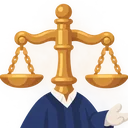
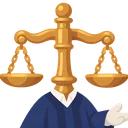
chore : COMMON-49 이미지 검수 기록 · 표정 규칙 완화 문서 갱신 · 번짐 보정 webp 교체

diff --git a/docs/character/character-image-checklist.md b/docs/character/character-image-checklist.md
@@ -36,6 +36,7 @@
 | v0.30 | 2026-10-19 | 스테이징 신규 이미지 12장 반영(COMMON-46) — A6 마스코트 로 6장 · G2 소품 시트 · H1 내로 · 남불 의상 시트 · 사건 1 재연 컷 3장. 파일 이름은 이 문서 규칙대로, `_original/`에도 백업. 검수는 아직 |
 | v0.31 | 2026-10-20 | 스테이징 신규 이미지 반영(COMMON-46) — H0 라인업 시트 5장 · H1 로 의상 시트 3장 · H2 마스코트 로 컷 9 + 합의 · 비교 컷 3장 · H3 · H4 역할 컷 10장(검수는 아직). **볼따구(B4) 컷 4장을 시트 `deform-cheek` 기준(짧은 만두형 몸통 · 납작한 볼)으로 다시 만들어** `base/cheek/`에 넣고, 옛 컷은 `base/cheek-slim/`(`cut-cheek-slim_*`)에 보존, 그 그림체 시트 2장(`deform-cheek-slim`)을 추가. `cuts/{캐릭터}/base/`를 `scene` · `cheek` · `cheek-slim` · `role` · `mascot` 하위 폴더로 나눔(이미지 저장소와 로컬 동일) |
 | v0.32 | 2026-10-20 | **웹 webp 반영(COMMON-48)** — 시트를 뺀 화면용 이미지를 webp로 변환해 `frontend/public/images/characters/`에 추가(`scene` 16 · `cheek` 4 · `icon` 12 · `mascot` 15 · `standing` 8 · `roles` 10, 역할 8장은 정식 컷으로 교체 + 사건 1 배역 2장). 시트를 뺀 나머지도 변환(`cheek-slim` 4 · `adult` 9 · `cases/reenact-common*` 6, 성향 32장과 사건 1 재연 3장은 이미 있어 제외). `stage.js` 등이 이미지 저장소 raw PNG 대신 이 webp를 읽고, 로 이미지는 마스코트 버전(`mascot/`)으로 바꿈. 이미지 저장소 `base/` 하위 폴더 정리로 옛 경로가 404가 된 문제도 함께 해결 |
+| v0.33 | 2026-10-20 | **검수 · 화면 확인 · 상태 정리(COMMON-49)** — 10/19 ~ 10/20 추가분 검수와 실제 앱 화면 확인 결과를 4-2에 기록. 결정: 로 데포르메 세부 시트(G6)는 보류(종합 시트로 대체), 사건별 재연 컷은 보류(사건 미정 · 관리자 페이지에서 추가 가능), `cheek-slim` 시트 · 컷은 그대로 사용, 옛 성인 비율 로(`law/` · `adult/`)는 지우지 않고 사용 예정. **표정 규칙 완화**: 극적 긴장감 · 감정선을 위해 날카롭거나 화난 표정을 재연 · 연기 · 시트에서 허용(폭력 · 조롱 금지는 유지, 안내 · 성향 · 아이콘은 그대로), 사건 1 `sub-1` 설명을 남불이 안 보이는 구도로 변경. 조건부 2건(로울 마스코트 `idle-neutral` 번짐, 내로 `role-actor` 흰 번짐)은 후처리한 후보로 교체(옛 파일은 로컬 `discard/cuts/`). H0 ~ H4 · A6 · B4 · G2 상태 갱신 |
 
 > 형식 · 이름 규칙 · 검수 기준은 [캐릭터 에셋 아키텍처](character-asset-architecture.md)가 기준이다(시트 2-2 · 장면 · 감정 코드 3-2 · 상황 4-1 · 크기 6-5 · 검수 7-2). 이 문서는 **무엇을 몇 장 만들고 어디까지 했는지**만 적는다.
 > 캐릭터 설정은 [캐릭터 프로필 · 세계관](character-profile-worldview.md), 성향 이미지 번호는 [성향 이미지 번호표](personality-image-numbers.md)가 기준이다.
@@ -72,7 +73,7 @@
 | 글자 | 이미지 안에 글자 · 숫자 · 로고를 넣지 않는다(말풍선 · 이름표는 웹 UI) |
 | 판결 전 화면 | 로는 저울 1인 · 수평(`neutral`)만 |
 | 봉투 | 로는 **빈손이 기본**. 판결문 봉투는 `deliver`(발표 · 로딩 끝)에서만 든다(10/14) |
-| 표정 | 화난 표정(`angry`)은 만들지 않는다 |
+| 표정 | **10/20 완화**: 재연 컷 · 연기 · 시트에서는 극적 긴장감 · 감정선을 위해 날카롭거나 화난 표정도 쓸 수 있다. 폭력(흉기 · 상처 · 신체 가해) · 악의적 조롱 · 선정적 표현은 계속 금지. 안내 · 리액션 컷 · 성향 결과 · 아이콘에는 쓰지 않고 감정 코드에 `angry`는 만들지 않는다 |
 | 키 | 내로 120 · 남불 120 · 로 저울 230 · 법봉 190 · 법전 210(같은 바닥선, 아키텍처 2-5). **마스코트 로**(A6)는 로울 180 · 로북 170 · 로봉 160 |
 | 로 이름 | 로울 = 저울(`law-scale`) · 로봉 = 법봉(`law-gavel`) · 로북 = 법전(`law-book`). 파일 · 폴더에는 코드를 쓴다. 판결 화면에서는 이름 대신 "AI 판사"(이미지에는 원래 글자를 넣지 않는다) |
 
@@ -94,7 +95,7 @@
 | A5 | **캐릭터별 기준 시트** (내로 · 남불 · 로울 · 로봉) | 4 | 시트 | 10/14 결정: 기준 시트는 **한 장에 한 캐릭터**(아키텍처 2-1 "캐릭터마다 1장"). 로북은 이미 1인 시트(A1 · R2). 칸은 정면 전신 · 턴어라운드 4칸(앞 · 3/4 · 옆 · 뒤) · 표정 6종(마스코트) 또는 자세 6종(로) · 그 캐릭터 색만 있는 색 견본, **키 비교 칸 없음**, 로는 빈손 기본 + 봉투는 한 칸만. **10/14 검수**: **내로 · 남불 · 로울 3장 통과** → `sheets/{naero · nambul · law-scale}_sheet_reference.png`로 정리, 옛 2인 시트(`discard_naero-and-nambul_sheet_reference_two-person.png` · `discard_law-scale-and-law-gavel_sheet_reference_two-person.png`)는 `discard/sheets/`. 사소한 점: 내로 · 남불 `thinking` 표정의 눈썹이 짜증 나 보임(화난 표정 금지 규칙의 경계선), 내로 `sorry`가 눈 감은 표정, 로울 3/4 뷰가 정면과 비슷. **로봉**: 1차본은 떡대 체형이 안 나와(폭/높이 0.44 · 로울 0.48과 같음) 수정했고, **수정본 통과**(0.62 · 로울 대비 +29%, 어깨 · 가슴 · 소매 두꺼움, 4칸 · 6칸 · 봉투 한 칸 OK) → `sheets/law-gavel_sheet_reference.png`, 1차본은 `discard/sheets/discard_law-gavel_sheet_reference_v1-slim-body.png`. 사소: 색 견본 5개(봉투 · 밀랍색 없음), 걷는 칸 다리 비율 | ✅ 4장 |
 | R3 | 키 비교 v2 | 1 | 시트 | 비율 보정(로울 1.92 · 로북 1.75 · 로봉 1.58배), 로북 떠 있게, 숫자 없이, 전원 빈손. **합성 `all_sheet_height-compare.png`로 대체**(내로 · 남불 · 로 셋이 목표 비율 그대로, 같은 바닥선, 글자 없음 · 가이드선만). 한계: 머리 끝 높이에 맞춰 줄여서 로봉의 떡대(어깨 폭) 체형은 덜 드러남. 체형까지 살리려면 모델로 다시 생성 | ✅ (합성) |
 | R4 | 로봉 스탠딩 재작업 | 1 | 투명 PNG | 10/14 로봉 1인 시트 수정본에서 떡대 체형이 확정되어 지금 스탠딩을 넓혀 다시 뽑음. 프롬프트는 문장형 지시를 잘 못 따르는 생성 AI에 맞춰 **수치를 직접 넣는 방식**(10%로 쓰고 사용자가 20%로 조정, 작업 목록 문서 R4 이력). **검수 통과**: 어깨 +19% · 로브 아래 +15% · 중간 +10%(지금 대비 실측), 전체 약 10 ~ 19% — 머리 크기 · 포즈 · 구두(검정) · 로브 형태 유지, 초록 잔여 0. 사용자 판단: "실사체에서는 이 정도가 적당". 새 파일이 `standing/law-gavel_standing.png`, 옛 슬림본은 `discard/standing/discard_law-gavel_standing_slim-body.png`. **연쇄**: 아래 C1 · C2 · A3 · B6 · F1 로봉이 새 체형 기준으로 바뀜 | ✅ |
-| A6 | **마스코트 로** 스탠딩 3 · 기준 시트 3 (로울 · 로봉 · 로북) | 6 | 투명 PNG · 시트 | 10/15 추가: 로를 내로 · 남불과 같은 **2등신 마스코트 그림체**로(기본 `adult` 로는 그대로). 키 로울 180 · 로북 170 · 로봉 160(내로 · 남불 120), 체형 차이 유지. 품질 high. 스탠딩 → 그 스탠딩을 첨부해 시트. 파일 `{law-*}_standing_deform-mascot.png` · `{law-*}_sheet_deform-mascot.png`. 프롬프트 모음 9-16. G6의 첨부 기준. **1차 지시서 1묶음**, 완성 프롬프트 10-1 · 10-2. 올릴 곳: `standing/{law-*}_standing_deform-mascot.png` · `sheets/deform/{law-*}_sheet_deform-mascot.png`(2차 지시서 H0 로 셋 · H2의 첨부) | ✅ 10/19 반영(COMMON-46, 스테이징 6장 · 검수 전) |
+| A6 | **마스코트 로** 스탠딩 3 · 기준 시트 3 (로울 · 로봉 · 로북) | 6 | 투명 PNG · 시트 | 10/15 추가: 로를 내로 · 남불과 같은 **2등신 마스코트 그림체**로(기본 `adult` 로는 그대로). 키 로울 180 · 로북 170 · 로봉 160(내로 · 남불 120), 체형 차이 유지. 품질 high. 스탠딩 → 그 스탠딩을 첨부해 시트. 파일 `{law-*}_standing_deform-mascot.png` · `{law-*}_sheet_deform-mascot.png`. 프롬프트 모음 9-16. G6의 첨부 기준. **1차 지시서 1묶음**, 완성 프롬프트 10-1 · 10-2. 올릴 곳: `standing/{law-*}_standing_deform-mascot.png` · `sheets/deform/{law-*}_sheet_deform-mascot.png`(2차 지시서 H0 로 셋 · H2의 첨부) | ✅ 10/19 반영(COMMON-46) · 10/20 검수 통과 |
 
 - A1 · A2가 끝나면 아키텍처 2-4(색) · 2-5(프로필) · 5-1(IDENTITY)에 법전을 추가한다. 10/14 A2 실측: 표지 `#722C30` ~ `#621E25`(제안 `#5E1F2B`보다 밝은 와인색), 황동 모서리 `#CFAA75` 근처.
 - A3 다시 뽑을 때 추가 문장: `Law (Book) floats above the collar with a clear gap; it never rests on the shoulders.` · `Make Naero and Nambul about 8% larger so the ratios match exactly.` · 숫자 라벨 없이 뽑고 나중에 얹는다.
@@ -106,7 +107,7 @@
 | B1 | 로(저울) | `idle-neutral` · `deliver-neutral`(봉투) | 2 | S-01 메인 · S-02 신문 지면 · 로딩 끝 전달 | ✅ 검수 통과 · PNG 정리(`cuts/law-scale/base/scene/`), webp 변환 전. `idle-neutral`은 A4 변환 대신 새로 생성한 컷(`law-scale_standing.png`와 별개). 저울 수평 · 두 손 봉투 · 목 없음 OK, `deliver`는 "반 걸음 앞으로"가 약함 |
 | B2 | 내로 (`mascot`) | `guide-neutral` · `guide-happy` · `react-surprised` · `react-happy` · `react-sorry` | 5 | 안내 · 리액션 | ✅ 검수 통과 · PNG 정리(`cuts/naero/base/scene/`) · 4:5 맞춤. 후속: 컷마다 캐릭터 크기 차이(웹 변환 때 기준 정함), `react-happy` 눈 감은 웃음 확인 |
 | B3 | 남불 (`mascot`) | B2와 같은 5종 | 5 | 안내 · 리액션 | ✅ 검수 통과 · PNG 정리(`cuts/nambul/base/scene/`) · 4:5 맞춤. 후속: `react-surprised` 캐릭터가 작음, `react-happy` 눈 감음(남불은 동공이 보이는 눈이 정체성이라 확인) |
-| B4 | 내로 · 남불 (`cheek`) | `idle-sorry` · `idle-thinking` | 4 | 로딩 · 빈 상태 · 오류 | ✅ **10/14 사용자 판단으로 통과** · PNG 정리(`cuts/{naero,nambul}/base/cheek-slim/{naero,nambul}_cut-cheek-slim_`(10/20 시트 기준으로 다시 만든 컷은 `base/cheek/`, 이 컷은 `cheek-slim/`으로 보존)). 한계로 기록: 몸통이 "작고 둥근 만두 + 돌기 팔다리" 지시와 다름(`idle-thinking` 둘은 가는 다리로 서 있음), 남불 `idle-thinking`은 입을 활짝 웃음 |
+| B4 | 내로 · 남불 (`cheek`) | `idle-sorry` · `idle-thinking` | 4 | 로딩 · 빈 상태 · 오류 | ✅ **10/14 사용자 판단으로 통과** · PNG 정리(`cuts/{naero,nambul}/base/cheek-slim/{naero,nambul}_cut-cheek-slim_`(10/20 시트 기준으로 다시 만든 컷은 `base/cheek/`, 이 컷은 `cheek-slim/`으로 보존)). 한계로 기록: 몸통이 "작고 둥근 만두 + 돌기 팔다리" 지시와 다름(`idle-thinking` 둘은 가는 다리로 서 있음), 남불 `idle-thinking`은 입을 활짝 웃음 **10/20**: 시트(`deform-cheek`) 기준(짧은 만두형 몸통 · 납작한 볼)으로 4장 다시 만들어 `base/cheek/`에 넣고 검수 통과. 옛 컷은 `base/cheek-slim/`에 두고 시트(`deform-cheek-slim`)와 함께 **그대로 사용**(사용자 결정, 재생성 안 함). |
 | B5 | 내로 · 남불 (`ppg` 아이콘) | `face-{neutral · happy · surprised · thinking · sorry · cheer}` | 12 | 토스트 · 완료 피드백 | ✅ 10/14 `cheer` · `sorry` 4장 재생성본 통과(`cheer`는 별 하이라이트 + 반짝이로 `happy`와 64 px에서 구분, `sorry`는 땀방울이 읽힘 — 남불은 흐림), 아이콘 12장 모두 통과. 머리 비율은 칸의 76 ~ 85%(규격 약 70%, 허용). 이전 `cheer` · `sorry`는 `discard/icons/` |
 | B6 | 내로 · 남불 · 로봉 · 로북 | `idle-neutral`(**스탠딩을 4:5로 변환만**, 생성 없음) | 4 | S-17 프로필 기본 자세(4-1 `profile`) · 컬렉션 · 빈 상태 기본 · 결과 화면 합의 전후 단독 컷. 로울은 B1에 있음 → 5캐릭터 모두 `idle-neutral`을 갖춘다. 로봉은 **10/14 새 체형 스탠딩**을 변환한다 | ✅ 10/14 변환 완료(4:5 · 1122 × 1402, 내로 · 남불은 스탠딩 bbox를 캔버스 높이 약 72%로 가운데 배치, 로봉 · 로북은 971 × 1619 캔버스에 투명 여백을 더해 맞춤, 로봉은 새 떡대 스탠딩). 로울은 B1의 `idle-neutral`을 그대로 씀. 한계: 내로 · 남불 스탠딩은 입을 벌린 밝은 웃음이라 `neutral`보다 `happy`에 가까움 |
 | B7 | 내로 · 남불 (`mascot`) | `cheer-cheer` | 2 | S-06 판결 입력 응원(4-1 `cheer`). **특정 형량 쪽 응원처럼 보이면 안 됨**(빈손, 가리키지 않음) | ✅ 10/14 검수 통과 · `cuts/{naero,nambul}/base/scene/{naero,nambul}_cut_cheer-cheer.png`(4:5). 작게 뛰며 두 주먹 · 빈손 · 가리키지 않음 |
@@ -148,11 +149,11 @@
 | # | 이미지 | 비고 |
 | --- | --- | --- |
 | G1 | 나머지 데포르메 8종 시트 | 아키텍처 3-1. **→ H5로 옮김**(H0을 보고 고른 데포르메만) |
-| G2 | 소품 시트 | 3-3 카탈로그를 물건만 따로. **10/15 이관 묶음에 포함 → ✅ 10/19 반영(COMMON-46, 검수 전)**: 10종(신문 · 돋보기 · 메모장 · 펜 · 서류철 · 클립보드 · 봉투 · 법전 · 법봉 · 작은 저울) + 크기 기준용 작은 내로, `props_sheet_catalog.png`. **1차 지시서 4묶음**, 완성 프롬프트 10-5. 올릴 곳: `sheets/props_sheet_catalog.png` |
+| G2 | 소품 시트 | 3-3 카탈로그를 물건만 따로. **10/15 이관 묶음에 포함 → ✅ 10/19 반영(COMMON-46) · 10/20 검수 통과(소품 10종 정상, 크기 기준 내로의 날카로운 표정은 완화된 표정 규칙에 맞음)**: 10종(신문 · 돋보기 · 메모장 · 펜 · 서류철 · 클립보드 · 봉투 · 법전 · 법봉 · 작은 저울) + 크기 기준용 작은 내로, `props_sheet_catalog.png`. **1차 지시서 4묶음**, 완성 프롬프트 10-5. 올릴 곳: `sheets/props_sheet_catalog.png` |
 | G3 | 스타일 변형 시트 | `riso` · `flat25` 등(3-6) |
 | G4 | 꾸미기 레이어 | `layers/`, 저장 방식이 정해진 뒤 |
 | G5 | 이벤트 · 굿즈용 | IP 확장(프로필 · 세계관 6장) |
-| G6 | 로 데포르메 시트 (로울 · 로봉 · 로북 × `cheek` · `ranma` · `ppg`) | 아키텍처 2-2 "데포르메 시트 — 대표"의 로 몫. 로 쪽 DEFORMATION 블록은 프롬프트 모음 6-5 · 6-8 · 6-11에 이미 있음. 지금 로딩은 로 셋 `adult` 합의 연출이라 급하지 않음. **만들 때는 셋을 같이**(로울만 만들지 않는다), STYLE은 `editorial`로 바꾼다(2-3). **10/15 이관 묶음에 포함**(🟨, A6 검수 통과 뒤): A6 마스코트 시트 + 내로의 같은 데포르메 시트를 첨부, 법전 머리 한 줄 추가, `ranma`는 마스코트 비율을 따라 하지 않게 못 박음. 파일 `{law-*}_sheet_deform-{cheek · ranma · ppg}.png`. **1차 지시서 2묶음**, 완성 프롬프트 10-3. 올릴 곳: `sheets/deform/` |
+| G6 | 로 데포르메 시트 (로울 · 로봉 · 로북 × `cheek` · `ranma` · `ppg`) | 아키텍처 2-2 "데포르메 시트 — 대표"의 로 몫. 로 쪽 DEFORMATION 블록은 프롬프트 모음 6-5 · 6-8 · 6-11에 이미 있음. 지금 로딩은 로 셋 `adult` 합의 연출이라 급하지 않음. **만들 때는 셋을 같이**(로울만 만들지 않는다), STYLE은 `editorial`로 바꾼다(2-3). **10/15 이관 묶음에 포함**(🟨, A6 검수 통과 뒤): A6 마스코트 시트 + 내로의 같은 데포르메 시트를 첨부, 법전 머리 한 줄 추가, `ranma`는 마스코트 비율을 따라 하지 않게 못 박음. 파일 `{law-*}_sheet_deform-{cheek · ranma · ppg}.png`. **1차 지시서 2묶음**, 완성 프롬프트 10-3. 올릴 곳: `sheets/deform/` **10/20 결정: 보류** — 로 데포르메 세부 시트(`cheek` · `ranma` · `ppg`)는 종합 시트(H0)로 대신하고, 필요하면 후속에서 만든다. |
 | G7 | 데포르메별 자세 · 표정 | 10/15 추가. 데포르메마다 연기 시트 · 컷. **범위 정의 필요**(어느 데포르메 · 몇 장). **→ H6 · H7로 옮김** |
 | G8 | 캐릭터 카드 | 10/15 추가. 컬렉션 등에 쓸 카드. **정의 필요**(구성 · 비율 · 글자를 웹에서 얹을지). **→ H8로 옮김** |
 
@@ -164,16 +165,16 @@
 
 | # | 이미지 | 수량 | 형식 | 비고 | 상태 |
 | --- | --- | --- | --- | --- | --- |
-| H0 | **데포르메 묶음 시트** — 한 캐릭터를 기본 + 데포르메 11종, 12칸에 같은 자세로 | 5 (내로 · 남불 · 로울 · 로봉 · 로북) | 시트 16:9 | **느낌을 보는 용도**. 11종(아키텍처 3-1) 전부를 한 장에 넣어 비교하고, 본격적으로 만들 데포르메를 고른다. 로는 기본 칸에 마스코트 로(A6)를 쓰므로 A6 뒤. 12칸이 너무 빽빽하게 나오면 6칸씩 두 장으로 나눈다. 렌더링(외곽선 없음 · 평면 색)은 같게 두고 비율 · 형태 · 연기만 바꾼다. 2차 지시서 H0, 10-6. 올릴 곳: `sheets/deform/` | 🟨 이관 |
-| H1 | **의상 시트** — 일상 의상 8벌 | 5 (내로 · 남불 · 로울 · 로봉 · 로북) | 시트 16:9 | 기존 역할 의상 시트(F2: 판사 · 검사 · 변호인 · 사건 역할)와 별개. 정장 · 트렌치코트 · 후드티 · 니트 · 작업복 · 앞치마 · 패딩 · 잠옷(제복은 법정 역할과 헷갈려 뺌). 내로 · 남불은 사건 재연(H4)의 의상을 여기서 고르고, 로는 법복을 벗은 모습(컬렉션 · 카드용, 기본 로 `authority` × `adult`, 머리 물체 · 흰 장갑 유지). 반다나 없음, 초록 · 캐릭터 고정색 피함. 2차 지시서 H1, 10-7. 올릴 곳: `sheets/wardrobe/` | 🟨 내로 · 남불 2장 ✅ 10/19 반영(COMMON-46, 검수 전), 로 3장 이관 |
-| H2 | **마스코트 로 컷** | 12 | 장면 컷 4:5 · 16:9 | 로 셋 × `idle-neutral` · `deliver-neutral` · `think-thinking`(9) + `trio_cut-mascot_idle` · `trio_cut-mascot_think`(2, 16:9) + 내로 · 로울 · 남불 비교 `compare_cut-mascot_trio-thinking`(1, 16:9). 키 로울 180 · 로북 170 · 로봉 160(내로 · 남불 120). A6 통과 뒤. 2차 지시서 H2, 10-8(1차 1묶음 통과 뒤). 올릴 곳: `cuts/{law-*}/base/mascot/` · `cuts/trio/` · `cuts/compare/` | 🟨 이관 |
-| H3 | **역할 의상 정식 컷** | 8 | 장면 컷 4:5 | 지금 판결 체험 무대(`frontend/public/images/characters/roles/*.webp`, FE-27 · 28)는 **역할 의상 시트에서 잘라 낸 컷**(높이 560 px)을 쓰고, **남불 변호인 컷은 없다**. 내로 · 남불 × 판사 · 검사 · 변호인 · 사건 역할 = 8장을 `idle-neutral`로 정식 생성한다. **검사 · 변호인은 같은 자세 · 같은 표정**(한쪽이 옳아 보이지 않게). 파일 `{naero · nambul}_cut-role-{역할}_idle-neutral.png`. 2차 지시서 H3, 10-9. 올릴 곳: `cuts/{naero · nambul}/role/`. 통과하면 웹 webp로 바꿔 `frontend/public/images/characters/roles/`를 교체한다 | 🟨 이관 |
+| H0 | **데포르메 묶음 시트** — 한 캐릭터를 기본 + 데포르메 11종, 12칸에 같은 자세로 | 5 (내로 · 남불 · 로울 · 로봉 · 로북) | 시트 16:9 | **느낌을 보는 용도**. 11종(아키텍처 3-1) 전부를 한 장에 넣어 비교하고, 본격적으로 만들 데포르메를 고른다. 로는 기본 칸에 마스코트 로(A6)를 쓰므로 A6 뒤. 12칸이 너무 빽빽하게 나오면 6칸씩 두 장으로 나눈다. 렌더링(외곽선 없음 · 평면 색)은 같게 두고 비율 · 형태 · 연기만 바꾼다. 2차 지시서 H0, 10-6. 올릴 곳: `sheets/deform/` | ✅ 10/19 · 10/20 반영, 10/20 검수 통과(키 큰 변형 몇 컷의 날카로운 눈썹은 완화된 표정 규칙에 맞음, 로봉 · 로북 시트는 흰 배경을 투명본으로 교체) |
+| H1 | **의상 시트** — 일상 의상 8벌 | 5 (내로 · 남불 · 로울 · 로봉 · 로북) | 시트 16:9 | 기존 역할 의상 시트(F2: 판사 · 검사 · 변호인 · 사건 역할)와 별개. 정장 · 트렌치코트 · 후드티 · 니트 · 작업복 · 앞치마 · 패딩 · 잠옷(제복은 법정 역할과 헷갈려 뺌). 내로 · 남불은 사건 재연(H4)의 의상을 여기서 고르고, 로는 법복을 벗은 모습(컬렉션 · 카드용, 기본 로 `authority` × `adult`, 머리 물체 · 흰 장갑 유지). 반다나 없음, 초록 · 캐릭터 고정색 피함. 2차 지시서 H1, 10-7. 올릴 곳: `sheets/wardrobe/` | ✅ 5장 반영(내로 · 남불 10/19, 로 3장 10/20), 10/20 검수 통과(로 3장은 성인 비율 그림체, 로봉 시트는 흰 배경을 투명본으로 교체) |
+| H2 | **마스코트 로 컷** | 12 | 장면 컷 4:5 · 16:9 | 로 셋 × `idle-neutral` · `deliver-neutral` · `think-thinking`(9) + `trio_cut-mascot_idle` · `trio_cut-mascot_think`(2, 16:9) + 내로 · 로울 · 남불 비교 `compare_cut-mascot_trio-thinking`(1, 16:9). 키 로울 180 · 로북 170 · 로봉 160(내로 · 남불 120). A6 통과 뒤. 2차 지시서 H2, 10-8(1차 1묶음 통과 뒤). 올릴 곳: `cuts/{law-*}/base/mascot/` · `cuts/trio/` · `cuts/compare/` | ✅ 10/20 반영(COMMON-46) · webp(COMMON-48), 10/20 검수 12장 통과 — `law-scale_cut-mascot_idle-neutral`의 반투명 회색 번짐은 10/20 후처리로 해소(반투명 픽셀 13.7% → 0.7%, 옛 파일은 로컬 `discard/cuts/`로) |
+| H3 | **역할 의상 정식 컷** | 8 | 장면 컷 4:5 | 지금 판결 체험 무대(`frontend/public/images/characters/roles/*.webp`, FE-27 · 28)는 **역할 의상 시트에서 잘라 낸 컷**(높이 560 px)을 쓰고, **남불 변호인 컷은 없다**. 내로 · 남불 × 판사 · 검사 · 변호인 · 사건 역할 = 8장을 `idle-neutral`로 정식 생성한다. **검사 · 변호인은 같은 자세 · 같은 표정**(한쪽이 옳아 보이지 않게). 파일 `{naero · nambul}_cut-role-{역할}_idle-neutral.png`. 2차 지시서 H3, 10-9. 올릴 곳: `cuts/{naero · nambul}/base/role/`. 통과하면 웹 webp로 바꿔 `frontend/public/images/characters/roles/`를 교체한다 | ✅ 10/20 반영(COMMON-46) · webp로 `roles/` 교체(COMMON-48), 10/20 검수 8장 통과 — `naero_cut-role-actor`의 셔츠 주변 흰 번짐은 10/20 후처리로 해소(반투명 픽셀 2.8% → 0.4%, 옛 파일은 로컬 `discard/cuts/`로) |
 
 **2순위**
 
 | # | 이미지 | 수량 | 형식 | 비고 | 상태 |
 | --- | --- | --- | --- | --- | --- |
-| H4 | **사건별 재연** — 재연 컷 3 + 사건 배역 컷 2 | 사건마다 5 | 16:9 · 4:5 | 재연 컷(E1, `headline` · `sub-1` · `detail-1`)에 더해, 무대(3막 등)에서 그 사건 의상을 입은 내로 · 남불 컷(`{naero · nambul}_cut-role-case-{caseId}_idle-neutral.png`)을 함께 만든다. 의상은 H1에서 고른다. 배역은 사건마다 번갈아(세계관 5-2). 사건 1은 재연 컷 3장이 이관 묶음에 있으므로 배역 컷 2장만 남음. 2 ~ 9번 사건은 확정되는 대로. 사건 1 배역 컷 2장은 2차 지시서 H4, 10-10. 올릴 곳: `cuts/{naero · nambul}/role/` | 사건 1 재연 컷 3장 ✅ 10/19 반영(COMMON-46, `cuts/reenact/case-1/`, 검수 전) · 🟨 배역 컷 2장 이관 |
+| H4 | **사건별 재연** — 재연 컷 3 + 사건 배역 컷 2 | 사건마다 5 | 16:9 · 4:5 | 재연 컷(E1, `headline` · `sub-1` · `detail-1`)에 더해, 무대(3막 등)에서 그 사건 의상을 입은 내로 · 남불 컷(`{naero · nambul}_cut-role-case-{caseId}_idle-neutral.png`)을 함께 만든다. 의상은 H1에서 고른다. 배역은 사건마다 번갈아(세계관 5-2). 사건 1은 재연 컷 3장이 이관 묶음에 있으므로 배역 컷 2장만 남음. 2 ~ 9번 사건은 확정되는 대로. 사건 1 배역 컷 2장은 2차 지시서 H4, 10-10. 올릴 곳: `cuts/{naero · nambul}/base/role/` | 사건 1 재연 컷 3장 ✅ 10/19 반영(`cuts/reenact/case-1/`) · 10/20 검수 통과: `sub-1`은 남불이 화면에 없는 구도로 설명을 바꿈, `detail-1`의 날카로운 표정은 완화된 규칙에 맞음 · 배역 컷 2장 ✅ 10/20 반영 · 검수 통과. **사건별 재연 컷은 보류**(사건 미정, 관리자 페이지에서 넣을 수도 있음) |
 
 **3순위** (H0을 보고 범위를 정한다)
 
@@ -292,6 +293,26 @@
 - 해시로 확인: 이름 정리 때 B5 아이콘 12장이 원본과 같은 파일인지 대조했다(밀린 이름은 바로 고침).
 
 ---
+
+### 4-2. 검수 기록 (2026-10-20)
+
+10/19 ~ 10/20에 추가한 이미지를 어두운 배경에 올려 검수하고(흰 테두리 · 번짐이 보이게), 판결 체험 무대 6막을 끝까지 넘기며 실제 화면을 확인했다. 투명도는 알파 채널로 확인했다.
+
+| 묶음 | 결과 | 메모 |
+| --- | --- | --- |
+| 마스코트 로 스탠딩 · 기준 시트 6장 | ✅ | 2등신 · 키 비율 · 빈손 · 봉투는 마지막 자세에서만 |
+| 마스코트 로 컷 9장 · 합의 · 비교 컷 3장 | ✅ | 로울 `idle-neutral`에 반투명 회색 번짐이 있어(반투명 픽셀 13.7%, 다른 컷은 0.5% 안팎) 알파 70 이하를 걷어내는 후처리로 고침(0.7%). 옛 파일은 `discard_law-scale_cut-mascot_idle-neutral_v1-haze.png`. webp(`mascot/law-scale_idle` · `icon`)도 다시 변환 |
+| 내로 · 남불 역할 컷 10장 | ✅ | `naero_cut-role-actor`에 셔츠 주변 흰 번짐(흰색 반투명 0.88%)이 있어 알파 70 이하 제거 + 본체 밖 2px 밖 반투명 제거 후처리로 고침(0.08%). 옛 파일은 `discard_naero_cut-role-actor_idle-neutral_v1-halo.png`. webp(`roles/naero_actor`)도 다시 변환. 반다나 없음 · 불꽃 아래 불 없음 · 코 없음 확인 |
+| 볼따구 컷 4장(시트 기준) · `cheek-slim` 시트 2장 | ✅ | 만두형 몸통 · 납작한 볼 · 남불 `idle-thinking` 작은 입. `cheek-slim`은 눈 · 볼 차이가 작지만 그대로 사용(사용자 결정) |
+| 라인업 시트 5장 · 로 의상 시트 3장(+ 내로 · 남불 의상 2장) | ✅ | 12칸 · 8벌 구성, 반다나 없음. 로 의상 시트 3장은 성인 비율. 키 큰 변형 몇 컷의 눈썹이 날카롭지만 10/20 완화된 표정 규칙(극적 감정선 허용)에 맞아 문제 없음 |
+| 투명 배경 교체 3장 | ✅ | 로봉 · 로북 라인업, 로봉 의상. 알파 채널 확인, 흰 테두리 없음. 로봉 라인업 오른쪽 끝 열 법봉 위 작은 흰 점은 원본 하이라이트인지 미확인 |
+| 소품 시트 | ✅ | 크기 기준 내로의 날카로운 표정은 완화된 표정 규칙에 맞아 문제 없음 |
+| 사건 1 재연 컷 3장 | ✅ | `sub-1`은 문을 두드리는 내로만 보이고 남불은 화면에 없음 — 사진이 마음에 들어 **설명을 바꾸기로 함**(남불은 집 안에 있어 보이지 않는 구도, 프롬프트 SCENE도 정정). `detail-1`의 날카로운 내로 표정은 완화된 규칙(극적 긴장감 허용)에 맞아 문제 없음. `headline`은 정상 |
+
+**실제 화면 확인(10/20, `develop` 개발 서버 mock 모드, 6막 41컷)**
+- 이미지 요청 34종 중 깨진 것 0건. 랜딩 · 사건 1 신문 지면 · 2막 재판(검사 · 변호인 의상) · 5막 판사 · 남불 배역 · 6막 비교 · 볼따구 캐릭터가 모두 정상으로 뜸.
+- 4막 AI 판결 합의: 마스코트 로 3명이 겹침 없이 서지만 로울의 저울판 · 손이 옆 로봉 · 로북 몸에 거의 닿음(경미). 위치(`--home` 30 · 50 · 70%)를 조금 벌리는 것을 검토할 수 있음.
+- 대본이 쓰는 내로 · 남불 모습(`scene` · `cheek` · `roles` · `deform`)은 모두 `public` webp가 존재.
 
 ## 5. 예시 프롬프트
 

diff --git a/docs/character/character-image-prompts.md b/docs/character/character-image-prompts.md
@@ -1170,7 +1170,7 @@ No face, no eyes, no mouth, no neck, no human head. The head is a chunky, thick,
 사건 재연 컷은 **드라마 한 장면처럼 극적인 표정 · 상황**을 쓸 수 있다(아키텍처 4-3). 9-7 `reenact` 뒤에 붙인다. 화난 · 적대적인 표정과 폭력은 여전히 쓰지 않는다.
 
 ```
-CASE RULES — a dramatic, tense, newspaper-photo-like moment that shows the situation and the relationship. Strong emotions through faces and body language (frustration, desperation, shock, pressure), like a still from a TV drama, but never violent, never hostile or snarling, and no comedy. Nothing hints at the verdict.
+CASE RULES — a dramatic, tense, newspaper-photo-like moment that shows the situation and the relationship. Strong emotions through faces and body language (frustration, desperation, shock, pressure), like a still from a TV drama, but never violent (no weapons, injuries or physical attacks), never mocking, and no comedy. Sharp, tense or angry expressions are allowed when they serve the dramatic emotional arc. Nothing hints at the verdict.
 ```
 
 - STYLE `editorial`의 Mood 줄은 `Mood: dramatic and tense like a TV drama still, while the drawing stays warm, flat and slightly vintage.`로 바꾼다.
@@ -1367,13 +1367,13 @@ OUTFITS (new for this case, not the plain shirt-and-jeans) —
 - Nambul (the borrower at home): a worn, stretched grey hoodie, loose track pants and house slippers.
 Their faces, fur and flame colors stay exactly the same; only the clothes change.
 
-CASE RULES — a dramatic, tense, newspaper-photo-like moment that shows the situation and the relationship. Strong emotions through faces and body language (frustration, desperation, shock, pressure), like a still from a TV drama, but never violent, never hostile or snarling, and no comedy. Nothing hints at the verdict. Draw only the characters and the few props listed: no room, no walls, no floor, no scenery.
+CASE RULES — a dramatic, tense, newspaper-photo-like moment that shows the situation and the relationship. Strong emotions through faces and body language (frustration, desperation, shock, pressure), like a still from a TV drama, but never violent (no weapons, injuries or physical attacks), never mocking, and no comedy. Sharp, tense or angry expressions are allowed when they serve the dramatic emotional arc. Nothing hints at the verdict. Draw only the characters and the few props listed: no room, no walls, no floor, no scenery.
 
 SCENE — the argument about borrowed money peaks. Naero (the lender) on the left leans forward over a small low wooden table and slaps a plain sheet of paper like an IOU (completely blank, no text) down on it, pointing at it, eyes wide with frustration. Nambul (the borrower) on the right steps back with both palms raised at chest height, eyes wide, a sweat drop, desperate to explain. On the table an empty mug has been knocked onto its side (nothing spilled). Dynamic diagonal composition. Full bodies visible, 10% margin.
 
 BACKGROUND — fully transparent background (PNG with alpha). No background color, no floor, no ground line, no shadow, no frame, no border. Aspect ratio 16:9 landscape.
 
-AVOID: text, letters, numbers, logos, watermarks, labels, speech bubbles, angry or hostile faces or poses, sexualized or revealing depiction, gendered body features, cropped limbs, any third character, black outlines, line art, drop shadows, ground shadows, background colors or scenery, 3D render, CGI, photo realism, injuries, weapons, knives, kitchen tools, blood, bodies, a crime in progress, grabbing, pushing, hitting, raising a fist at a person, tears, mocking anyone, a bandana on Naero, a nose on Nambul, flames below Nambul's head.
+AVOID: text, letters, numbers, logos, watermarks, labels, speech bubbles, violent, threatening or mocking faces or poses, sexualized or revealing depiction, gendered body features, cropped limbs, any third character, black outlines, line art, drop shadows, ground shadows, background colors or scenery, 3D render, CGI, photo realism, injuries, weapons, knives, kitchen tools, blood, bodies, a crime in progress, grabbing, pushing, hitting, raising a fist at a person, tears, mocking anyone, a bandana on Naero, a nose on Nambul, flames below Nambul's head.
 ```
 
 `sub-1` · `detail-1`은 SCENE 블록만 바꾼다.
@@ -1381,7 +1381,7 @@ AVOID: text, letters, numbers, logos, watermarks, labels, speech bubbles, angry 
 **sub-1** `reenact-case-1_cut_sub-1.png`
 
 ```
-SCENE — the visit. A single freestanding closed front door with its frame (just the door, no walls) in the middle. Naero (the lender) on the outside, left of the door, knocks hard on the door with the side of a fist (at the door, not at a person), a folded bundle of blank papers under the other arm, a tense, determined face. Nambul (the borrower) on the inside, right of the door, presses their back flat against the door, eyes squeezed shut, holding their breath. Small motion marks near the knocking hand. Full bodies visible, 10% margin.
+SCENE — the visit. A single freestanding closed front door with its frame (just the door, no walls) in the middle. Naero (the lender) on the outside, left of the door, knocks hard on the door with the side of a fist (at the door, not at a person), a folded bundle of blank papers under the other arm, a tense, determined face. Nambul (the borrower) stays inside the home and is NOT visible; only the closed door and Naero are shown (10/20: the generated image keeps Nambul off-frame). Small motion marks near the knocking hand. Full bodies visible, 10% margin.
 ```
 
 **detail-1** `reenact-case-1_cut_detail-1.png`
@@ -1638,7 +1638,7 @@ SCENE — a single character, centered, full body from head to feet fully visibl
 
 BACKGROUND — fully transparent background (PNG with alpha). No background color, no floor, no ground line, no shadow, no frame, no border. Aspect ratio 4:5 vertical.
 
-AVOID: text, letters, numbers, logos, watermarks, labels, speech bubbles, angry or hostile faces or poses, sexualized or revealing depiction, gendered body features, cropped limbs, black outlines, line art, drop shadows, ground shadows, background colors or scenery, 3D render, CGI, photo realism, extra characters, logos on clothes, props in the hands, a bandana, a different fur color, a human face, whisker lines.
+AVOID: text, letters, numbers, logos, watermarks, labels, speech bubbles, violent, threatening or mocking faces or poses, sexualized or revealing depiction, gendered body features, cropped limbs, black outlines, line art, drop shadows, ground shadows, background colors or scenery, 3D render, CGI, photo realism, extra characters, logos on clothes, props in the hands, a bandana, a different fur color, a human face, whisker lines.
 ```
 
 남불 `nambul_cut-role-case-1_idle-neutral.png`은 이름 · 첨부, OUTFIT 줄(`OUTFIT — a worn, stretched grey hoodie, loose track pants and house slippers.`), AVOID 끝(9-8 남불)을 바꾼다.

diff --git a/docs/character/character-main-handover.md b/docs/character/character-main-handover.md
@@ -59,7 +59,7 @@
 | 2 | **지금 이미지는 유지**하고 없는 이미지만 만든다. 다시 뽑는 것은 최종 디테일 때 | 지금 이미지도 gpt image 2.0으로 뽑아 품질이 충분 |
 | 3 | 생성 배경은 **모두 투명**(시트 · 재연 컷 포함). 신문 느낌은 후보정 | 에셋 아키텍처 6-5, 프롬프트 모음 9-7 |
 | 4 | 로 **마스코트 버전**(내로 · 남불과 같은 2등신) 추가, 키 로울 180 · 로북 170 · 로봉 160 | 에셋 아키텍처 2-5 · 3-1, 프롬프트 모음 9-16 |
-| 5 | 사건 재연 컷은 **극적 연출**을 쓸 수 있다(폭력 · 적대 표정 금지. "양쪽 감정을 같은 무게로"는 10/15 철회, 이미지가 판결에 미칠 영향은 추후 필요 시 조절). 사건 1 첫 샘플은 공용 재연 세트 2로 옮김 | 에셋 아키텍처 4-3, 제작 목록 E1 |
+| 5 | 사건 재연 컷은 **극적 연출**을 쓸 수 있다(폭력 금지, 날카롭거나 화난 표정은 극적 감정선 범위에서 허용(10/20 완화). "양쪽 감정을 같은 무게로"는 10/15 철회, 이미지가 판결에 미칠 영향은 추후 필요 시 조절). 사건 1 첫 샘플은 공용 재연 세트 2로 옮김 | 에셋 아키텍처 4-3, 제작 목록 E1 |
 | 6 | 후순위에 **데포르메별 자세 · 표정, 캐릭터 카드** 추가(정의는 다음 묶음 전에). 제작 목록 개편으로 G7 · G8은 H6 · H7 · H8로 옮김 | 제작 목록 H6 ~ H8 |
 | 7 | **추가 생성 목록 H** 정리: 1순위 H0 데포르메 묶음 시트 · H1 의상 시트 · H2 마스코트 로 컷 · H3 역할 의상 정식 컷, 2순위 H4 사건별 재연 · 배역 컷, 3순위 H5 ~ H9(H0을 보고 범위 결정). 김현중이 `Claude outputs/character/manual-run-sheet_2026-10-15/작업-가이드.md`(로컬 작업 폴더, 레포 밖) 기준 **수작업**으로 만든다(지시서 · HTML 보고서는 쓰지 않는다). 작업 묶음: 1차 19장, 2차 32장(1순위 전부 + 사건 1 배역 컷) | 제작 목록 H장 · 3장, 프롬프트 모음 10-6 ~ 10-10 |
 

diff --git a/docs/decisions/COMMON-48.md b/docs/decisions/COMMON-48.md
@@ -28,6 +28,6 @@
 - 옛 성인 비율 로 컷 · 합의 · 비교 컷(`adult/`), 옛 볼따구 컷(`cheek-slim/`), 공용 재연 컷 6장(`cases/reenact-common*`)은 화면에서 아직 쓰지 않지만, 시트를 뺀 나머지를 모두 올리기로 해서 변환해 두었다(이미지 저장소가 원본이라 필요하면 다시 만들 수 있다).
 
 ## 추후 재검토가 필요하면
-- 옛 `law/`(성인 비율 로 12장)는 코드에서 더 이상 읽지 않는다. 확인 후 지우면 용량을 줄일 수 있다.
+- 성인 비율 로(`law/` 12장, `adult/` 9장)는 화면에서 지금은 읽지 않지만 쓸 예정이라(10/20 결정) 지우지 않고 보존한다.
 - `case-1/script.json`의 사건 1 신문 · 증거 사진은 아직 이미지 저장소 raw URL이다(경로는 그대로). 같은 이유로 `public`으로 옮길지 검토한다.
 - 마스코트 로 3명이 가로로 넓어져 합의 장면(`laws`)에서 겹치지 않는지는 `stage.css` 규칙을 옮긴 임시 HTML로만 확인했다(겹침 없음). 실제 앱 화면에서는 아직 확인하지 못했다.
